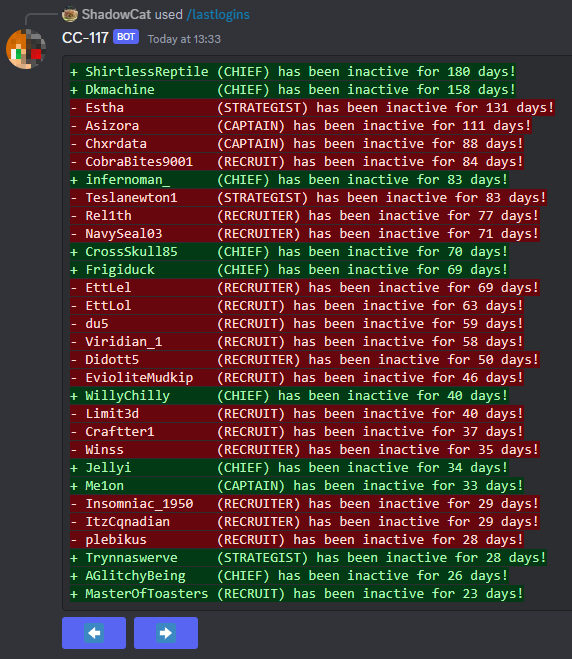
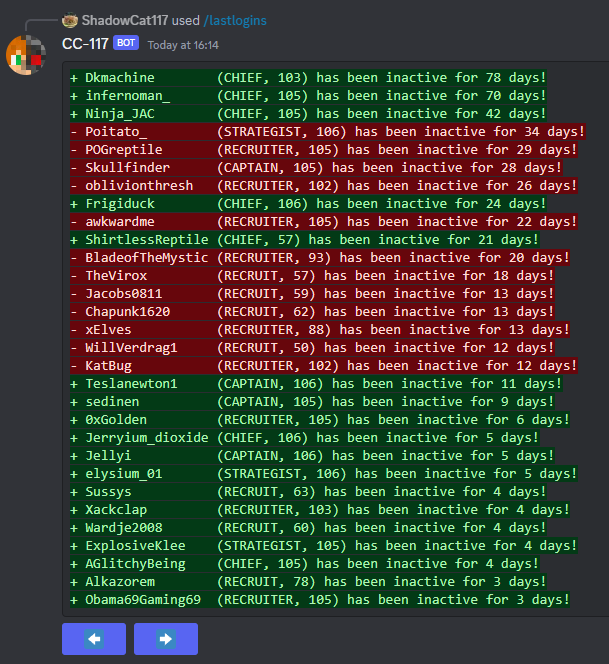
Update CC-117

diff --git a/projects/cc117/cc117.html b/projects/cc117/cc117.html
@@ -13,18 +13,25 @@
     <main class="main">
         <h1>CC-117</h1>
         <div class="content">
-            <p> This is a Discord bot I made for my Wynncraft Guild. It reads data from the Wynncraft public API and uses that to perform various different features. </p>
-            <p> The bot started out as a way to automatically apply roles in the Discord server based on their in-game stats, so if they had the Chief rank in the Guild, they would be given the Chief rank in the Discord server. </p> <img src="/Resources/CC-117/UpdateRanks.png" alt="The bot sending a message on how many members have had their roles updated.">
+            <p> This is a Discord bot that I made for my Wynncraft Guild. It reads various data from the Wynncraft public API and stores raw and edited data in a database which the bot can then access to perform various tasks. </p>
+            <p> The bot is actually split into 2 programs, one that is the actual bot which responds to user interaction, and the other is what reads from the API and populates the database. This way, if the bot is being used in multiple servers it won't be overloaded with API requests as it will only read from the database. </p>
+            <p> The bot started out as a way to automatically apply roles in the Discord server based on their in-game stats, so if they had the Chief rank in the Guild, they would be given the Chief rank in the Discord server. This feature has expanded to include other roles such as their donator rank, server rank and level. </p> <img src="/Resources/CC-117/UpdateRanks.png" alt="The bot sending a message on how many members have had their roles updated.">
             <p> After looking more into the API, I thought of some more features that could be included in the bot. So the next feature I implemented was the ability to track other guilds and get a rough idea on how many players each guild had online at a time. </p>
             <p> This would keep track of a running average of the players online over the course of a week and also how many of those players had the rank of captain or above. It also displays the same information but for how many are currently online, instead of the average. </p> <img src="/Resources/CC-117/TrackedGuilds.png" alt="The bot responding to the trackedguilds command.">
             <p> The next feature was an extension of tracking guilds and it tried to find the most and least active hours for a guild, those being when they had the most or least players online in the last 24 hours. </p>
             <p> The bot would display the average number of online players and online captains at each hour for the last week. It also allows you to change what timezone this information is displayed in, as by default it shows in UTC. </p> <img src="/Resources/CC-117/ActiveHours.png" alt="The bot responding to the activehours command.">
-            <p> The most recent feature I've added is to see how long it has been since every member in a guild logged in. It displays the username, guild rank and how many days it has been since the user logged in. If they are currently online, then it will say that. </p> <img src="/Resources/CC-117/LastLogins.png" alt="The bot responding to the lastlogins command.">
-            <p> You can also set in your config file the threshold for each rank and how long they are allowed to be inactive for before they will be removed from the guild. When a member is over the threshold they will be highlighted in red, otherwise they will be highlighted green. This will only work if the guild you are checking the last logins for is the guild your server represents. </p> <img src="/Resources/CC-117/LastLoginsHOC.png" alt="The bot responding to the lastlogins command for our guild.">
-            <p> Some guilds have the same name and/or prefix but with different capitilisation, so in these cases the bot will present the options of which guild you meant and you can click one of the buttons to make the choice. </p> <img src="/Resources/CC-117/MultipleGuilds.png" alt="The bot displaying a list of possible guilds given the prefix pun.">
-            <p> There also exists a command /viewconfig to easily see all of the configurations you have made to the bot so if you want to see what you set an option as, you can simply run this command to see if the option is already set to what you want. </p> <img src="/Resources/CC-117/ViewConfig.png" alt="The bot displaying a user friendly version of the config file for the current server.">
+            <p> Next I added the ability to see how long it has been since every member in a guild logged in. It displays the username, guild rank and how many days it has been since the user logged in. If they are currently online, then it will say that. </p> <img src="/Resources/CC-117/LastLogins.png" alt="The bot responding to the lastlogins command.">
+            <p> You can also set in your config file the threshold for each rank and how long they are allowed to be inactive for before they will be removed from the guild. When a member is over the threshold they will be highlighted in red, otherwise they will be highlighted green. This will only work if the guild you are checking the last logins for is the guild your server represents and since it is your guild, it will also display the highest level class that user has as that can be a factor in whether they should be kicked or not. </p> <img src="/Resources/CC-117/LastLoginsHOC.png" alt="The bot responding to the lastlogins command for our guild.">
+            <p> Another command is /worldactivity which allows you to see which world has the most players on in a specific guild. </p> <img src="/Resources/CC-117/WorldActivity.png" alt="The bot displaying the number of players currently online in the guild Profession Heaven.">
+            <p> Some more functionality I added was the ability to set what requirements you have for people to be promoted in the guild, this way you can easily run a command to see who should be promoted. </p> <img src="/Resources/CC-117/CheckForPromotions.png" alt="The bot displaying a list of players who should be promoted and the reason(s) why.">
+            <p> And I later added the same for demotions, which simply checked if someone had a rank but did not meet the requirements for. </p> <img src="/Resources/CC-117/CheckForDemotions.png" alt="The bot displaying a list of players who should be demoted and the reason(s) why.">
+            <p> I also added the ability to exempt people from promotion/demotions, so if someone was untrustworthy they could be exempt from appearing in the promotions list despite meeting the requirements and the same for demotions so if they had good strategies but did not meet the requirements for strategist, they would not be in the demotion list. </p>
+            <p> A message can be generated for users to show interest in when the guild participates in wars, from there they can also choose which war role they are able to perform. </p> <img src="/Resources/CC-117/WarMessage.png" alt="The bot displaying the class message and the following archetype message and the message saying you have been given the roles.">
+            <p> Similarly to the war message, there is also a message to select your favourite class & archetype, however unlike the war message you can only have 1 pair of roles. </p> <img src="/Resources/CC-117/ClassMessage.png" alt="The bot displaying a list of possible guilds given the prefix pun.">
+            <p> Some guilds have the same name and/or prefix but with different capitilisation, so in these cases the bot will present the options of which guild you meant and you can click one of the buttons to make the choice. </p> <img src="/Resources/CC-117/MultipleGuilds.png" alt="The bot displaying the war message and the following war role message and the message saying you have been given the role.">
+            <p> There also exists a command /viewconfig to easily see all of the configurations you have made to the bot so if you want to see what you set an option as, you can simply run this command to see if the option is already set to what you want. Since there are a lot of options, they are sorted and displayed on different pages. </p> <img src="/Resources/CC-117/ViewConfig.png" alt="The bot displaying a user friendly version of the config file for the current server.">
             <p> I originally wrote the bot in Python when it was simply just updating roles but as I wanted to add more features I swapped to Java to support slash commands and later when I wanted to swap to using a database rather than text files I rewrote the bot in JavaScript. </p>
-            <p> The bot currently supports multiple Discord servers as each has their own config file, however I am still currently testing it on my own guild's server to ensure everything works properly. </p>
+            <p> The bot currently supports multiple Discord servers as each has their own config file, however I am still testing it to ensure everything works and once I am happy with the configurability of the bot I hope to release it publicly. </p>
             <p> Every midnight in UTC the bot will update the roles of each member of a server that has the auto updateranks feature enabled to match their values in the database. Currently, this works fine as I am only testing it in 1 server, but this may be a problem when I eventually allow it to be invited to other servers so I would like to find a better way of doing this, as running it for multiple servers could slow the bot around this time. </p>
             <p>The GitHub repository for the new JavaScript bot is available <a style="margin-left: 0px;font-size: 20px;" ; href="https://github.com/JamieCallan117/CC-117"><u>here</u></a>. </p>
             <p>The GitHub repository for the old Java bot is available <a style="margin-left: 0px;font-size: 20px;" ; href="https://github.com/JamieCallan117/CC-117-legacy-"><u>here</u></a>. </p>
